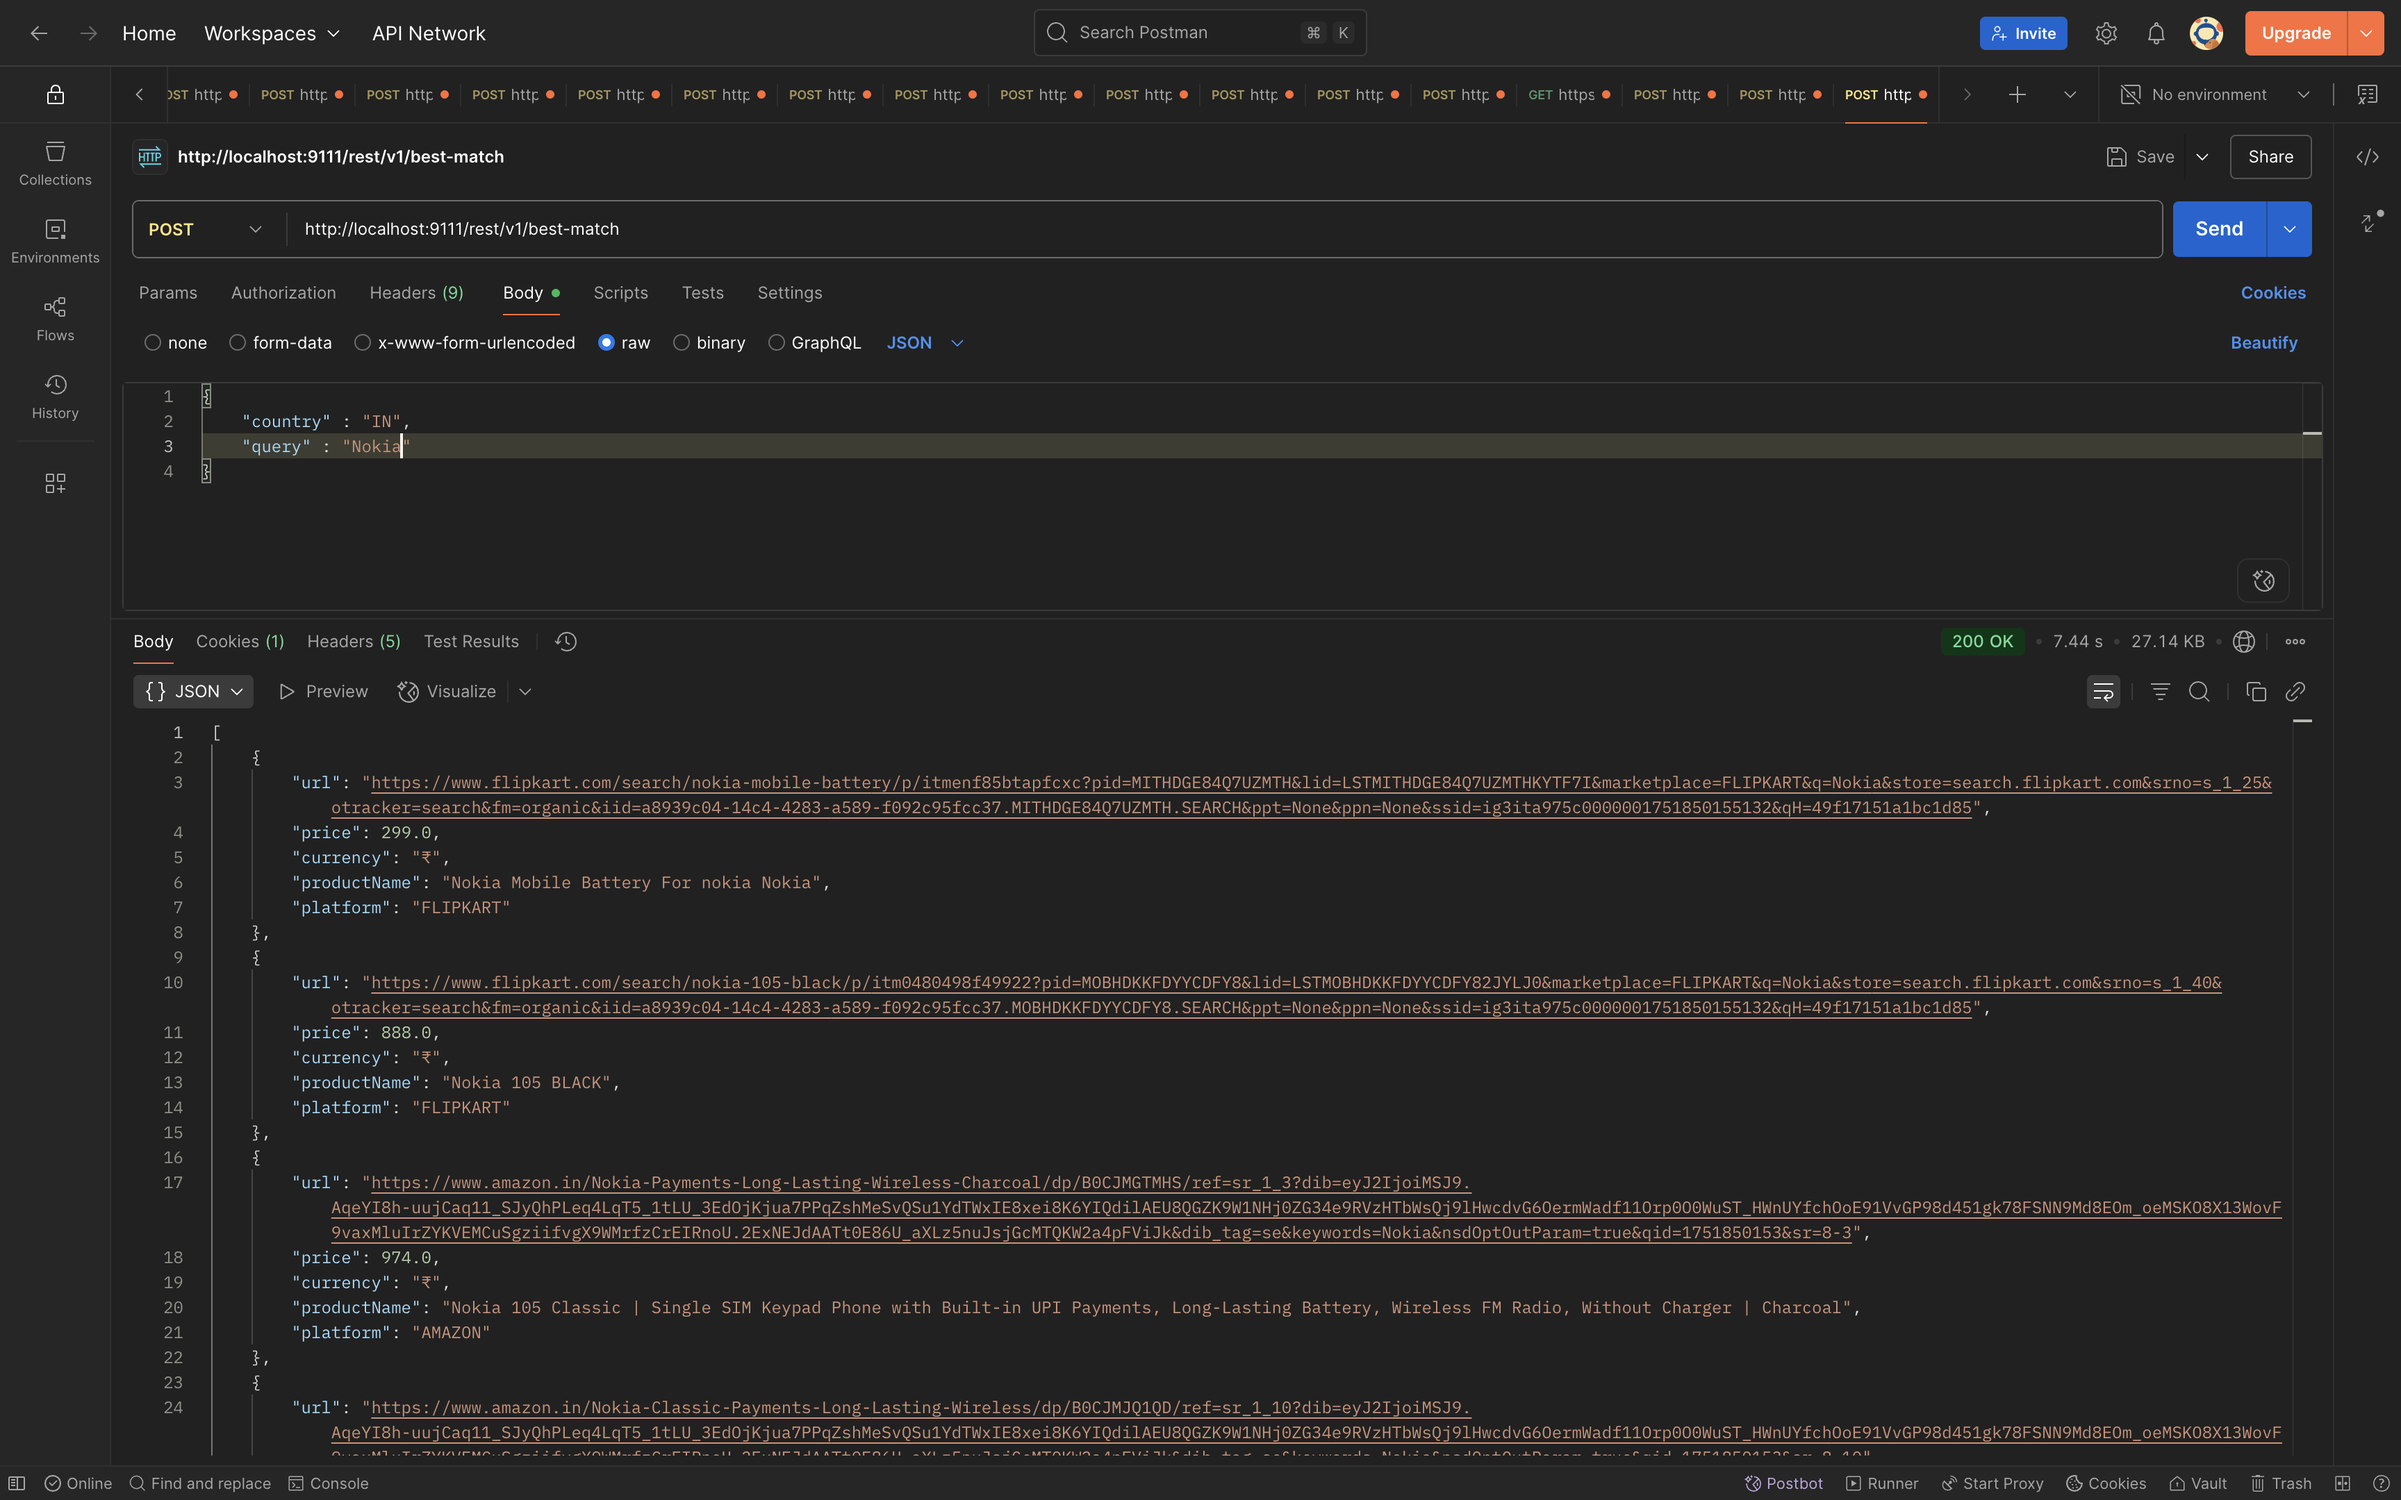
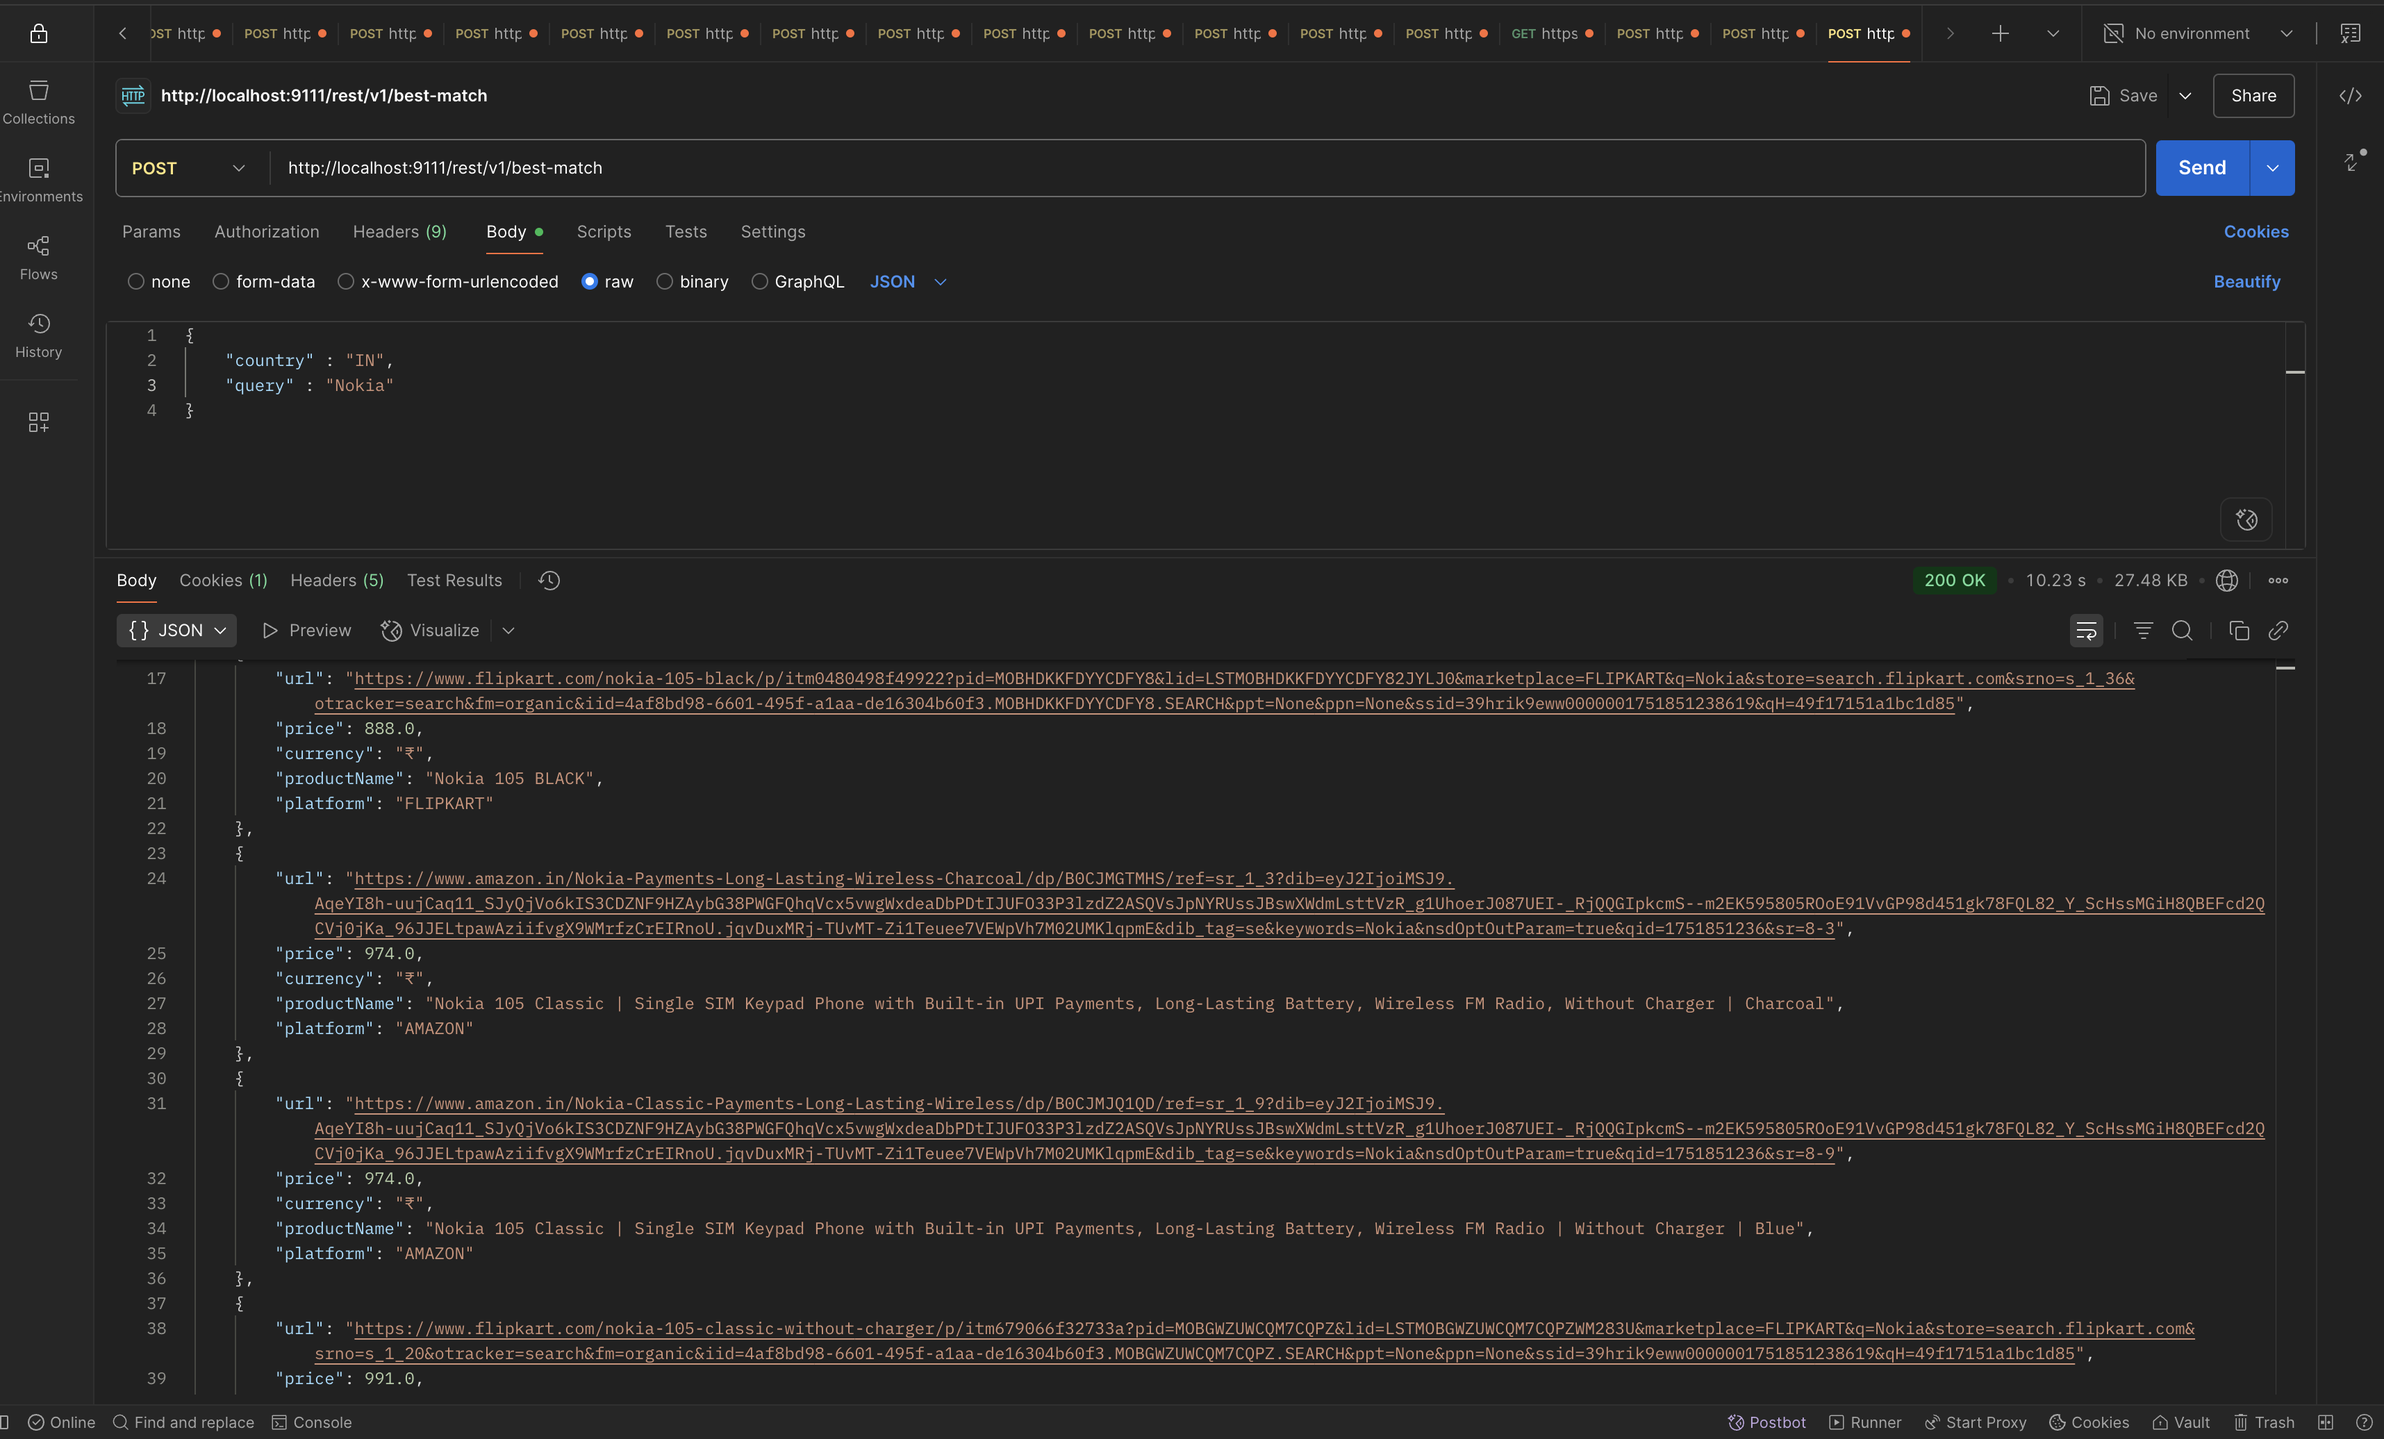
[INIT][BestMatch] fixes

diff --git a/src/main/java/com/bestmatch/BestMatch/services/ScrapeServiceImpl.java b/src/main/java/com/bestmatch/BestMatch/services/ScrapeServiceImpl.java
@@ -88,7 +88,7 @@ public class ScrapeServiceImpl implements ScrapeService {
         try {
             final String query = URLEncoder.encode(searchRequest.getQuery(), StandardCharsets.UTF_8);
             final String baseUrl = MatchUtil.getFlipkartURL(searchRequest.getCountry());
-            final String searchUrl = baseUrl + "?q=" + query;
+            final String searchUrl = baseUrl + "/search?q=" + query;
             webDriver.get(searchUrl);
             Thread.sleep(3000); // loading the browser
 

diff --git a/src/test/java/com/bestmatch/BestMatch/BestMatchApplicationTests.java b/src/test/java/com/bestmatch/BestMatch/BestMatchApplicationTests.java
@@ -103,7 +103,7 @@ class BestMatchApplicationTests {
     @Test
     public void scrapeFlipkart() {
         try {
-            String searchquery = "Dildo";
+            String searchquery = "nokia";
             String country = "IN";
             final String query = URLEncoder.encode(searchquery, StandardCharsets.UTF_8);
             final String baseUrl = MatchUtil.getFlipkartURL(country);

diff --git a/src/main/java/com/bestmatch/BestMatch/util/MatchUtil.java b/src/main/java/com/bestmatch/BestMatch/util/MatchUtil.java
@@ -32,7 +32,7 @@ public final class MatchUtil {
         // India OP
         switch (country.toUpperCase(Locale.ROOT)) {
             case "IN" -> {
-                return "https://www.flipkart.com/search";
+                return "https://www.flipkart.com";
             }
             default -> {
                 // Abhi bas itna hi....
